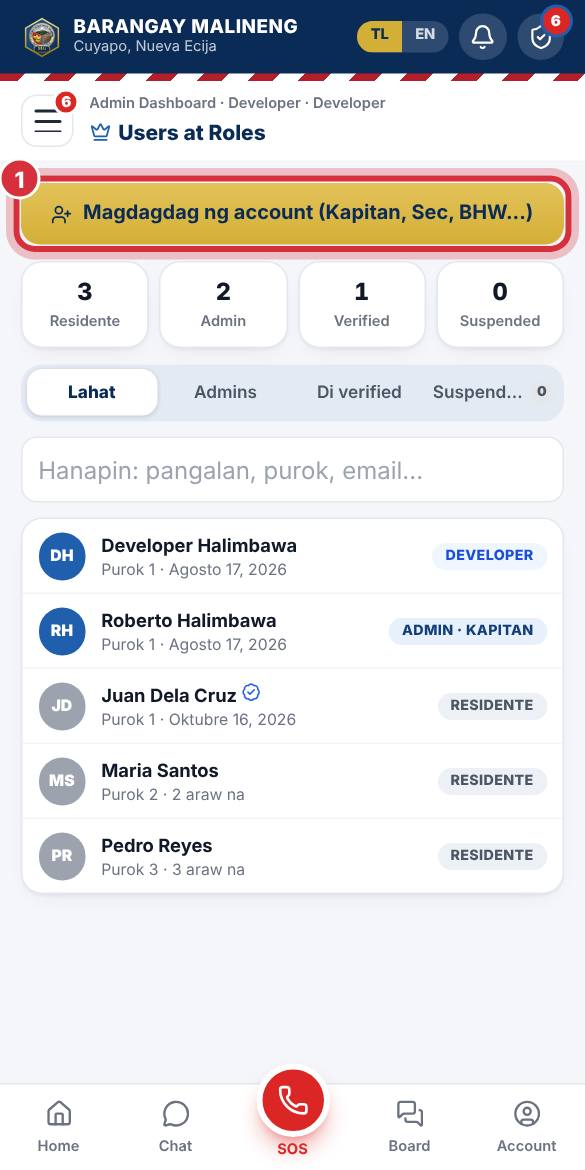
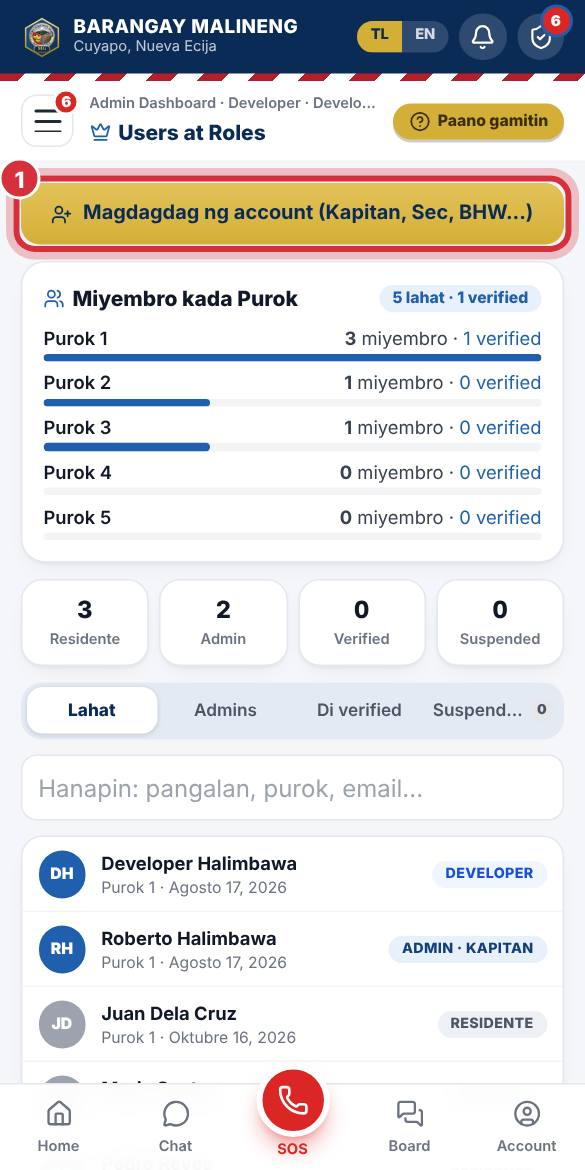
Members per purok: counts in the Chat room list and a card in Users at Roles (admins only), with the admin guide updated
Claude-Session: https://claude.ai/code/session_013F6BoHnbdQ1Ng6Eh2JznKS

diff --git a/malineng-web/src/app/chat/page.tsx b/malineng-web/src/app/chat/page.tsx
@@ -58,6 +58,7 @@ import { Button, ErrorText, Modal, PageHeader, Spinner } from "@/components/ui";
 import { RequireVerified } from "@/components/RequireVerified";
 import { LoginGate } from "@/components/LoginGate";
 import { DevInbox } from "@/components/DevInbox";
+import { usePurokCounts } from "@/lib/purokStats";
 
 const ROLE_STYLE: Record<string, string> = { Kapitan: "bg-amber-700", Secretary: "bg-teal-700", "Super Admin": "bg-purple-700" };
 /** Stored as "Super Admin" (the database rules check it); shown as "Developer". */
@@ -65,7 +66,7 @@ const roleText = (role: string) => (role === "Super Admin" ? "Developer" : role)
 
 /* ------------------------------ Room list ------------------------------ */
 
-function RoomRow({ room }: { room: string }) {
+function RoomRow({ room, members }: { room: string; members?: number }) {
   const q = useMemo(
     () => query(collection(db, "chatRooms", room, "messages"), where("createdAt", ">=", cutoffTimestamp()), orderBy("createdAt", "desc"), limit(1)),
     [room],
@@ -80,7 +81,7 @@ function RoomRow({ room }: { room: string }) {
     <Link href={`/chat/?room=${encodeURIComponent(room)}`} className="flex items-center gap-3 border-b border-gray-100 px-3 py-3 last:border-0 active:bg-gray-50">
       <span className={`flex h-11 w-11 shrink-0 items-center justify-center rounded-full text-base font-extrabold text-white ${staff ? "bg-brand-deep" : room === ROOM_ALL ? "bg-brand" : "bg-teal-600"}`}>{initial}</span>
       <span className="min-w-0 flex-1">
-        <span className="block font-bold">{roomTitle(room)}</span>
+        <span className="block font-bold">{roomTitle(room)}{members !== undefined && <span className="ml-1.5 text-xs font-semibold text-brand">· {members} miyembro</span>}</span>
         <span className="block truncate text-xs text-gray-500">
           {last ? `${last.authorName.split(" ")[0]}: ${last.text && parseCall(last.text) ? "📹 Video call" : last.text || "📷 Larawan"}` : "Walang mensahe pa"}
         </span>
@@ -96,6 +97,9 @@ function RoomRow({ room }: { room: string }) {
 function RoomList() {
   const { user, profile, isStaff, isAdmin, isSuperAdmin } = useAuth();
   const { settings } = useSettings();
+  // Admins see how many members each purok has.
+  const counts = usePurokCounts(isAdmin);
+  const memberOf = (room: string): number | undefined => (isAdmin ? counts.rows.find((r) => r.purok === room)?.members : undefined);
   // Private staff rooms come first. Officials = admins without BHW (and the Developer).
   const staffRooms = [...(isStaff ? [ROOM_STAFF_ADMIN] : []), ...(isAdmin ? [ROOM_STAFF_OFFICIALS] : [])];
   const rooms = [ROOM_ALL, ...(isStaff ? settings.puroks : profile?.purok ? [profile.purok] : [])];
@@ -129,7 +133,7 @@ function RoomList() {
       <p className="px-1 text-xs font-bold tracking-wide text-gray-600">MGA CHAT ROOM</p>
       <div className="overflow-hidden rounded-2xl bg-white shadow-card">
         {rooms.map((r) => (
-          <RoomRow key={r} room={r} />
+          <RoomRow key={r} room={r} members={memberOf(r)} />
         ))}
       </div>
       <p className="text-xs text-gray-600">

diff --git a/malineng-web/src/lib/purokStats.ts b/malineng-web/src/lib/purokStats.ts
@@ -1,0 +1,77 @@
+"use client";
+
+import { useEffect, useState } from "react";
+import { collection, getCountFromServer, query, where } from "firebase/firestore";
+import { db } from "@/lib/firebase";
+import { usePuroks } from "@/lib/useSettings";
+
+export interface PurokCount {
+  purok: string;
+  /** Accounts that chose this purok. */
+  members: number;
+  /** Of those, the ones whose selfie was verified. */
+  verified: number;
+}
+
+export interface PurokCounts {
+  rows: PurokCount[];
+  /** Accounts with no purok (or a purok that is not in the list any more). */
+  noPurok: number;
+  total: number;
+  verified: number;
+  loading: boolean;
+  failed: boolean;
+}
+
+const EMPTY: PurokCounts = { rows: [], noPurok: 0, total: 0, verified: 0, loading: true, failed: false };
+const TTL_MS = 5 * 60_000;
+let cache: { key: string; at: number; data: PurokCounts } | null = null;
+
+/**
+ * How many members each purok has. Staff only (the users list is private), so pass `enabled = isAdmin`.
+ * It uses count queries (about one read per 1,000 accounts) and remembers the answer for 5 minutes,
+ * so opening the screen again does not cost reads.
+ */
+export function usePurokCounts(enabled: boolean): PurokCounts {
+  const puroks = usePuroks();
+  const key = puroks.join("|");
+  const [data, setData] = useState<PurokCounts>(() => (cache && cache.key === key ? cache.data : EMPTY));
+
+  useEffect(() => {
+    if (!enabled) return;
+    if (cache && cache.key === key && Date.now() - cache.at < TTL_MS) {
+      setData(cache.data);
+      return;
+    }
+    let live = true;
+    (async () => {
+      try {
+        const [per, total, verified] = await Promise.all([
+          Promise.all(
+            puroks.map(async (purok) => {
+              const [m, v] = await Promise.all([
+                getCountFromServer(query(collection(db, "users"), where("purok", "==", purok))),
+                getCountFromServer(query(collection(db, "verifications"), where("purok", "==", purok), where("status", "==", "verified"))),
+              ]);
+              return { purok, members: m.data().count, verified: v.data().count };
+            }),
+          ),
+          getCountFromServer(collection(db, "users")),
+          getCountFromServer(collection(db, "verifiedUsers")),
+        ]);
+        const sum = per.reduce((n, r) => n + r.members, 0);
+        const next: PurokCounts = { rows: per, noPurok: Math.max(0, total.data().count - sum), total: total.data().count, verified: verified.data().count, loading: false, failed: false };
+        cache = { key, at: Date.now(), data: next };
+        if (live) setData(next);
+      } catch (err) {
+        console.warn("[purokStats] failed:", err);
+        if (live) setData({ ...EMPTY, loading: false, failed: true });
+      }
+    })();
+    return () => {
+      live = false;
+    };
+  }, [enabled, key, puroks]);
+
+  return data;
+}

diff --git a/malineng-web/src/components/admin/PurokCountsCard.tsx b/malineng-web/src/components/admin/PurokCountsCard.tsx
@@ -1,0 +1,42 @@
+"use client";
+
+import { Users } from "lucide-react";
+import { useAuth } from "@/context/AuthContext";
+import { usePurokCounts } from "@/lib/purokStats";
+import { Card, Spinner } from "@/components/ui";
+
+/** How many members (and verified members) each purok has. For admins. */
+export function PurokCountsCard() {
+  const { isAdmin } = useAuth();
+  const c = usePurokCounts(isAdmin);
+  if (!isAdmin) return null;
+  const max = Math.max(1, ...c.rows.map((r) => r.members));
+  return (
+    <Card className="space-y-2">
+      <div className="flex items-center justify-between gap-2">
+        <p className="flex items-center gap-1.5 font-extrabold"><Users className="h-4 w-4 text-brand" aria-hidden /> Miyembro kada Purok</p>
+        {!c.loading && !c.failed && <span className="rounded-full bg-brand-light px-2.5 py-0.5 text-xs font-extrabold text-brand">{c.total} lahat · {c.verified} verified</span>}
+      </div>
+      {c.loading ? (
+        <Spinner />
+      ) : c.failed ? (
+        <p className="text-sm text-red-700">Hindi ma-load ang bilang. Subukan ulit mamaya.</p>
+      ) : (
+        <ul className="space-y-1.5">
+          {c.rows.map((r) => (
+            <li key={r.purok} className="text-sm">
+              <div className="flex items-center justify-between gap-2">
+                <span className="font-semibold">{r.purok}</span>
+                <span className="text-gray-700"><b>{r.members}</b> miyembro · <span className="text-brand">{r.verified} verified</span></span>
+              </div>
+              <div className="mt-0.5 h-1.5 overflow-hidden rounded-full bg-gray-100" aria-hidden>
+                <div className="h-full rounded-full bg-brand" style={{ width: `${(r.members / max) * 100}%` }} />
+              </div>
+            </li>
+          ))}
+          {c.noPurok > 0 && <li className="flex justify-between text-sm text-gray-600"><span>Walang purok</span><span><b>{c.noPurok}</b> miyembro</span></li>}
+        </ul>
+      )}
+    </Card>
+  );
+}

diff --git a/malineng-web/src/components/admin/AdminUsers.tsx b/malineng-web/src/components/admin/AdminUsers.tsx
@@ -21,6 +21,7 @@ import type { UserProfile } from "@/lib/types";
 import { Badge, Button, Card, EmptyState, FilterTabs, Modal, Select, Spinner, SelectOther } from "@/components/ui";
 import { VerifiedBadge } from "@/components/VerifiedBadge";
 import { AddAccountForm } from "./AddAccountForm";
+import { PurokCountsCard } from "./PurokCountsCard";
 import { releasePhone } from "@/lib/phone";
 import { Avatar } from "@/components/Avatar";
 import { useToast } from "@/components/Toast";
@@ -307,6 +308,9 @@ export function AdminUsers() {
       <Modal open={adding} onClose={() => setAdding(false)} title="Bagong account">
         {adding && <AddAccountForm onDone={() => setAdding(false)} />}
       </Modal>
+      <div className="mb-3">
+        <PurokCountsCard />
+      </div>
       <div className="mb-3 grid grid-cols-4 gap-2">
         {stats.map((s) => (
           <div key={s.label} className="rounded-2xl bg-white p-2.5 text-center shadow-card">
